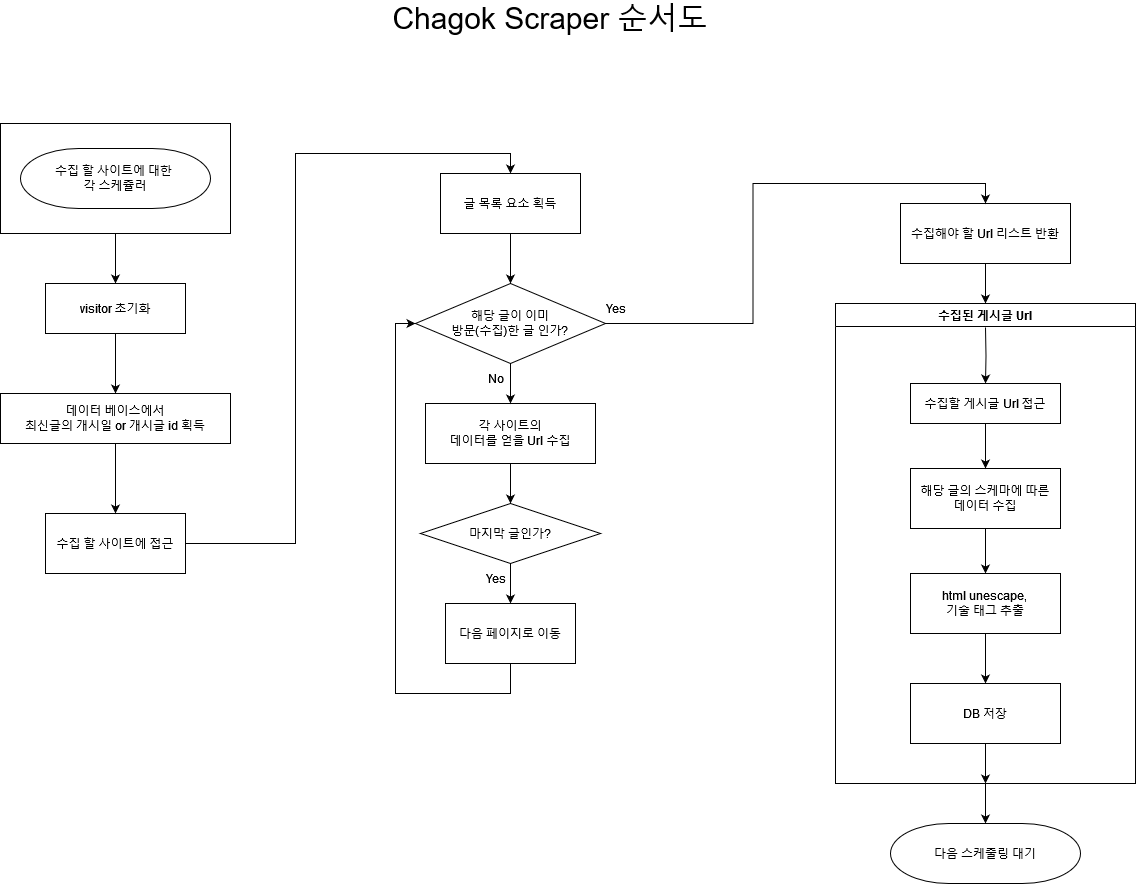
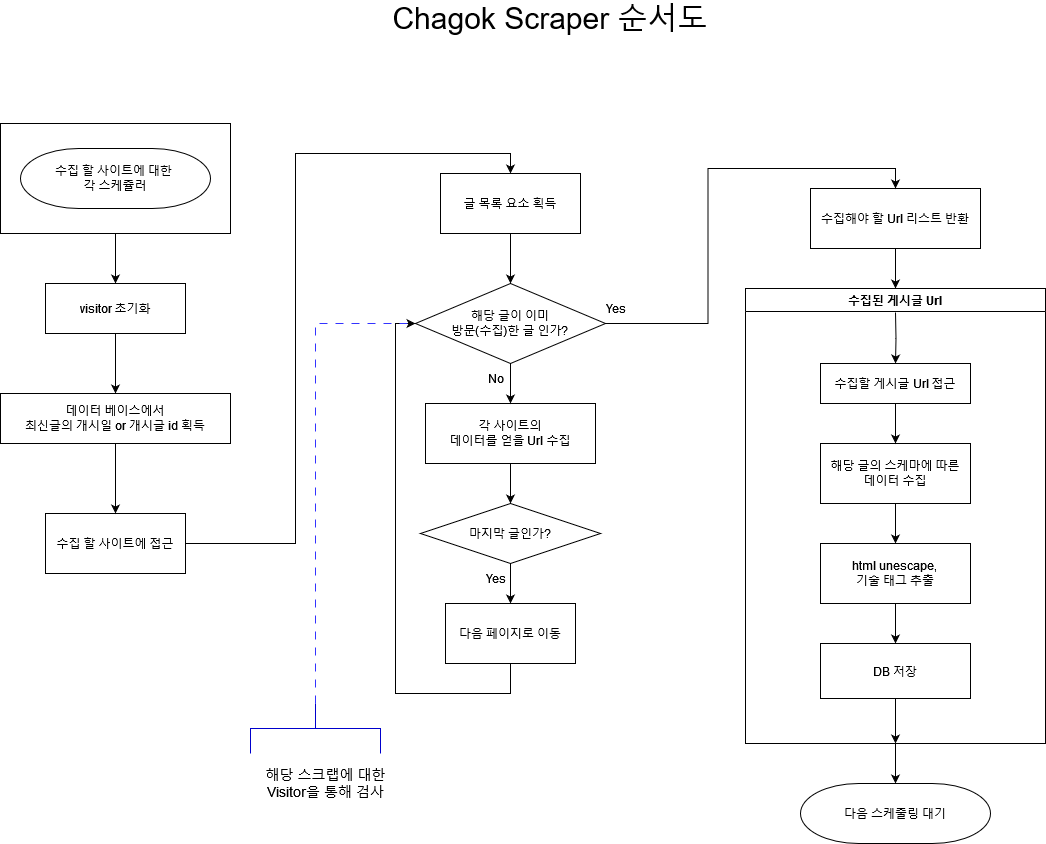
Read Me 수정 및 추가 - scraper 순서도 수정 - scraper 클래스 다이어그램 추가
Scraper 메소드명 수정
- getBoardDto -> getBoard

diff --git a/src/main/java/com/project/chagok/backend/scraper/batch/reader/ScrapItemReader.java b/src/main/java/com/project/chagok/backend/scraper/batch/reader/ScrapItemReader.java
@@ -29,7 +29,7 @@ public abstract class ScrapItemReader<T> implements ItemReader<T>, StepExecution
 
             sleep(TimeDelay.MEDIUM);
 
-            return getBoardDto(boardUrl);
+            return getBoard(boardUrl);
         }
 
 
@@ -59,5 +59,5 @@ public abstract class ScrapItemReader<T> implements ItemReader<T>, StepExecution
         return boardUrls.get(idx++);
     }
 
-    public abstract T getBoardDto(String boardUrl) throws IOException;
+    public abstract T getBoard(String boardUrl) throws IOException;
 }

diff --git a/src/main/java/com/project/chagok/backend/scraper/batch/reader/scraper/OkkyScraper.java b/src/main/java/com/project/chagok/backend/scraper/batch/reader/scraper/OkkyScraper.java
@@ -25,7 +25,7 @@ public class OkkyScraper extends ScrapItemReader<StudyProjectDto> implements Pro
     private final String baseUrl = "https://okky.kr/community/gathering";
 
     @Override
-    public StudyProjectDto getBoardDto(String boardUrl) throws IOException {
+    public StudyProjectDto getBoard(String boardUrl) throws IOException {
 
         ObjectMapper objectMapper = new ObjectMapper().configure(JsonReadFeature.ALLOW_UNESCAPED_CONTROL_CHARS.mappedFeature(), true);
 

diff --git a/src/main/java/com/project/chagok/backend/scraper/batch/reader/scraper/HolaScraper.java b/src/main/java/com/project/chagok/backend/scraper/batch/reader/scraper/HolaScraper.java
@@ -25,7 +25,7 @@ import java.util.regex.Pattern;
 public class HolaScraper extends ScrapItemReader<StudyProjectDto> implements ProjectStudyBoardExtractor<JsonNode> {
 
     @Override
-    public StudyProjectDto getBoardDto(String boardUrl) throws IOException {
+    public StudyProjectDto getBoard(String boardUrl) throws IOException {
 
         // boardId 값으로 api 주소에 대입해서 return
         String jsonUrl = extractBoardJsonFromUrl(boardUrl);

diff --git a/src/main/java/com/project/chagok/backend/scraper/batch/reader/scraper/ContestKoreaScraper.java b/src/main/java/com/project/chagok/backend/scraper/batch/reader/scraper/ContestKoreaScraper.java
@@ -19,7 +19,7 @@ import java.util.stream.Collectors;
 public class ContestKoreaScraper extends ScrapItemReader<ContestDto> implements ContestBoardExtractor<Document> {
 
     @Override
-    public ContestDto getBoardDto(String boardUrl) throws IOException {
+    public ContestDto getBoard(String boardUrl) throws IOException {
 
         Document parser = Jsoup
                     .connect(boardUrl)

diff --git a/src/main/java/com/project/chagok/backend/scraper/batch/reader/scraper/InflearnScraper.java b/src/main/java/com/project/chagok/backend/scraper/batch/reader/scraper/InflearnScraper.java
@@ -21,7 +21,7 @@ import java.util.List;
 public class InflearnScraper extends ScrapItemReader<StudyProjectDto> implements ProjectStudyBoardExtractor<Document> {
 
     @Override
-    public StudyProjectDto getBoardDto(String boardUrl) throws IOException {
+    public StudyProjectDto getBoard(String boardUrl) throws IOException {
 
         Document parser = Jsoup
                 .connect(boardUrl)

diff --git a/README.md b/README.md
@@ -63,3 +63,8 @@ CI/CD 구축 파이프라인<br>
 
 ## 순서도
 ![Chagok Scraper 순서도](./overview/images/scraper%20순서도.png)
+<br><br><br>
+
+### 클래스 다이어그램
+
+![Chagok Scraper 클래스 다이어그램](./overview/images/scraper%20클래스%20다이어그램.png)
